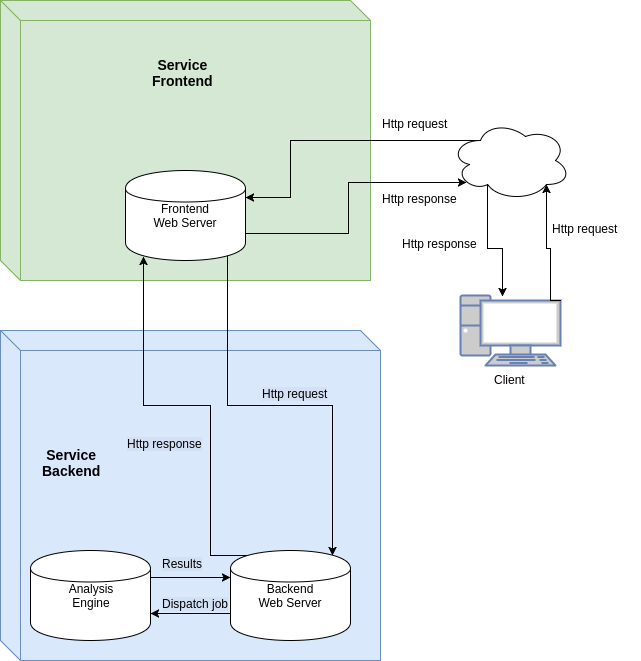
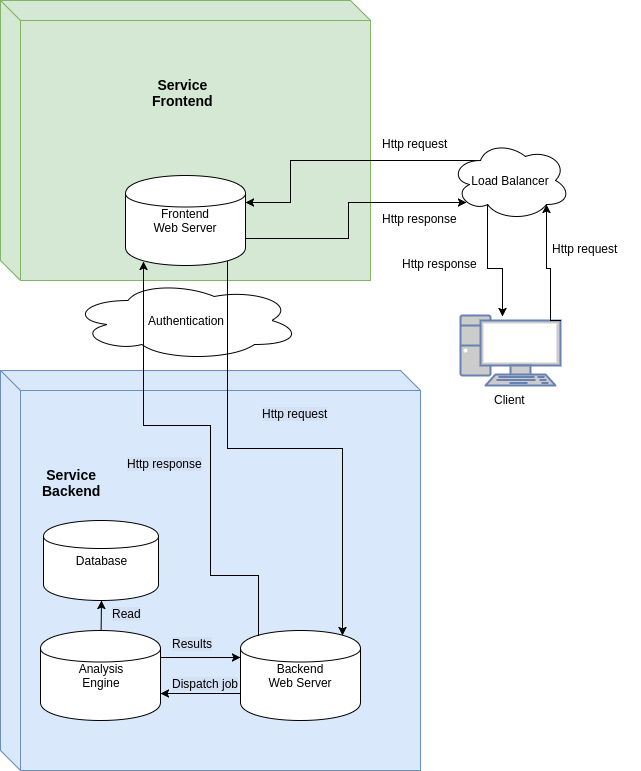
Little more content to the Carat Data -section

diff --git a/thesis/chapters/carat_data.tex b/thesis/chapters/carat_data.tex
@@ -2,11 +2,11 @@
 
 The Carat data consists of samples containing mobile device system settings, current battery level, the list of currently running mobile applications and a user specific identification token unique to each Carat application installation. Each Carat application user periodically sends these samples to the Carat server, typically when the device's battery level changes~\cite{Oliner:2013:CCE:2517351.2517354}. 
 
-Since we are interested about the effects that the mobile devices system settings and state may have on the energy consumption rate of the device, the samples need to be converted in such a way that the energy rate becomes accessible. This was done by grouping all samples according to their user identification token. The grouped tokens were then sorted according to the time of the samples arrival time stamp. These sorted samples were then paired up so that the first sample and the second sample make up pair number 1, the second and the third sample make up sample pair number 2 and so forth. These sample pairs were used as the basis of this analysis. The energy rate of a sample pair was calculated as the difference of the samples' battery levels divided by the difference of their time stamps. The set of running applications for a sample pair was decided to be the union of both samples running applications. For all other system settings and state the more recent of the sample pairs was used to determine the state or setting of the sample pair.
+Since we are interested about the effects that the mobile devices system settings and state may have on the energy consumption rate of the device, the samples need to be converted in such a way that the energy rate becomes accessible. This was done by grouping all samples according to their user identification token. The grouped tokens were then sorted according to the time of the samples arrival time stamp. These sorted samples were then paired up so that the first sample and the second sample make up pair number 1, the second and the third sample make up sample pair number 2 and so forth. These sample pairs were used as the basis of this analysis. The energy rate of a sample pair was calculated as the difference of the samples' battery levels divided by the difference of their time stamps. The set of running applications for a sample pair was decided to be the union of both samples running applications. For all other system settings and state the more recent sample of the pair was used to determine the state or settings of the sample pair.
 
-Since the Carat data comes from a large number of unsupervised clients, there is no guarantee for the integrity of the data. A faulty device or a hostile client may produce erroneous data. It is therefore essential to apply filtering to the data to minimize the amount errors in the data. 
+Since the Carat data comes from a large number of unsupervised clients, there is no guarantee for the integrity of the data. A faulty device or a hostile client may produce erroneous data. It is therefore essential to apply filtering to the data to minimize the amount of erroneous data. 
 
-Let us give a brief description of each of the system settings and state variables that were used as part of the analysis. Association analysis requires discrete data, as explained in chapter~\ref{association analysis}. Therefore we describe the way each of these variables is discretized. The following presentation of the data is based on a subset of the Carat data consisting of samples that were collected between 26.8.2016 and 3.10.2016 that had Facebook mobile application running.
+Let us give a brief description of each of the system settings and state variables that were used as part of the analysis. Association analysis requires discrete data, as explained in chapter~\ref{association analysis}. Therefore we describe the way each of these variables is discretized. The following presentation of the data is based on a subset of the Carat data consisting of samples that were collected between 26.8.2016 and 3.10.2016 that had Facebook mobile application running. For increased uniformity and simplicity, the data set only contains samples from clients running Android operating system. 
 
 \subsection{Energy Rate}
 
@@ -19,7 +19,7 @@ Energy rate of a mobile device is the velocity at which the mobile devices batte
 	\label{figure:carat-data-energy-rate}
 \end{figure}  
 
-Figure~\ref{figure:carat-data-energy-rate} shows a histogram of the energy rate distribution. The distribution seems to be a rough approximation of an exponential distribution. The distribution does not seem have an evident categorical division. Thus, the data was discretized by dividing it to four bins of equal frequency. 
+Figure~\ref{figure:carat-data-energy-rate} shows a histogram of the energy rate distribution. The distribution appears to be a rough approximation of an exponential distribution. The distribution does not seem have an evident categorical division. Thus, the data was discretized by dividing it to four bins of equal frequency. 
 
 \subsection{CPU Usage Level}  
 
@@ -58,13 +58,46 @@ Battery temperature is the measured mobile device battery temperature in degrees
 	\label{figure:carat-data-battery-temperature}
 \end{figure}  
 
-Figure~\ref{figure:carat-data-battery-temperature} shows a histogram of the battery temperature distribution. The distribution approximates a normal distribution with some skewedness. There is also a small cluster of measurements near zero degrees Celsius. This is most likely due to mobile devices systematically reporting a value of zero if the measurement data is not available. The data was discretized into four bins of equal frequency.
+Figure~\ref{figure:carat-data-battery-temperature} shows a histogram of the battery temperature distribution. The distribution approximates a normal distribution with some skewedness. Notably, there is a small cluster of measurements near zero degrees Celsius. This is most likely due to mobile devices systematically reporting a value of zero if the measurement data is not available. The data was discretized into four bins of equal frequency.
 
 \subsection{Battery Voltage}  
 
+Battery voltage is the electric potential difference generated by the battery in units of volts.
+
+\begin{figure}[!htbp]
+	\centering
+	\includegraphics[width=\textwidth]{images/carat-data/battery_voltage.png}
+	\caption{Histogram of battery voltages with 75 bins}
+	\label{figure:carat-data-battery-voltage}
+\end{figure}  
+
+Figure~\ref{figure:carat-data-battery-voltage} shows a histogram of battery voltage distribution from the Carat data. The voltages are clustered almost discretely around values of 2, 3 and 4 volts. The voltages were divided to three bins of equal mass to reflect this clustering.    
+
 \subsection{Screen Brightness}  
 
+Screen brightness is system setting that takes integer values between -1 and 255. Higher values correspond to higher screen brightness. The value negative one has a special meaning indicating automatic screen brightness, where the screen's brightness is adjusted according to changing illumination of the environment~\cite{PELTONEN201671}.
+
+\begin{figure}[!htbp]
+	\centering
+	\includegraphics[width=\textwidth]{images/carat-data/screen_brightness.png}
+	\caption{Histogram of screen brightness divided to 100 bins}
+	\label{figure:carat-data-screen-brightness}
+\end{figure}    
+
+Figure~\ref{figure:carat-data-screen-brightness} shows a histogram of the screen brightness values, where the values of -1 have been removed. The brightness values seem to roughly follow a uniform distribution, although very high screen brightness settings seem to be over represented. Approximately half of the samples had their brightness value at -1, indicating automatic brightness setting. Since the automatic setting is categorically different from all other brightness values, the brightness attribute was discretized in the following way: the value -1 formed it's own bin and the numerical values were divided to four bins of equal mass.   
+
 \subsection{Mobile Network Technology}  
+
+The mobile network technology is a system property that reports the name of the mobile technology that mobile device is using for its mobile data communication.
+
+\begin{figure}[!htbp]
+	\centering
+	\includegraphics[width=\textwidth]{images/carat-data/mobile_net_type.png}
+	\caption{Histogram of mobile network technologies in Carat data}
+	\label{figure:carat-data-mobile-net-type}
+\end{figure}   
+
+Figure~\ref{figure:carat-data-mobile-net-type} shows a histogram of all mobile network types in the Carat data. Ambiguous categories of "16", "19", "30", "unknown", "null" and "18" were combined to a single bin labelled as "unknown".
 
 \subsection{Network Type}  
 

diff --git a/thesis/chapters/implementation.tex b/thesis/chapters/implementation.tex
@@ -23,7 +23,9 @@ The implementation consists of three main components. These are the front end we
 	\item Analysis engine sends generated association rules to the back end web server.
 	\item Back end server sends HTTP response containing the generated rules to the front end web server.
 	\item Front end server uses the association rules to generate a view for the client.  
-\end{enumerate}    
+\end{enumerate}
+
+Figure~\ref{figure:carat-api-network-prototype} shows the flow of control between the different components of the Carat API. The prototype only implements the frontend and the backend of the service. Implementing load balancing and authentication falls outside the scope of this thesis. Some implementation constraints of the authentication module are discussed in~\cite{7840871}.     
 
 \subsection{Service Front End}
 
